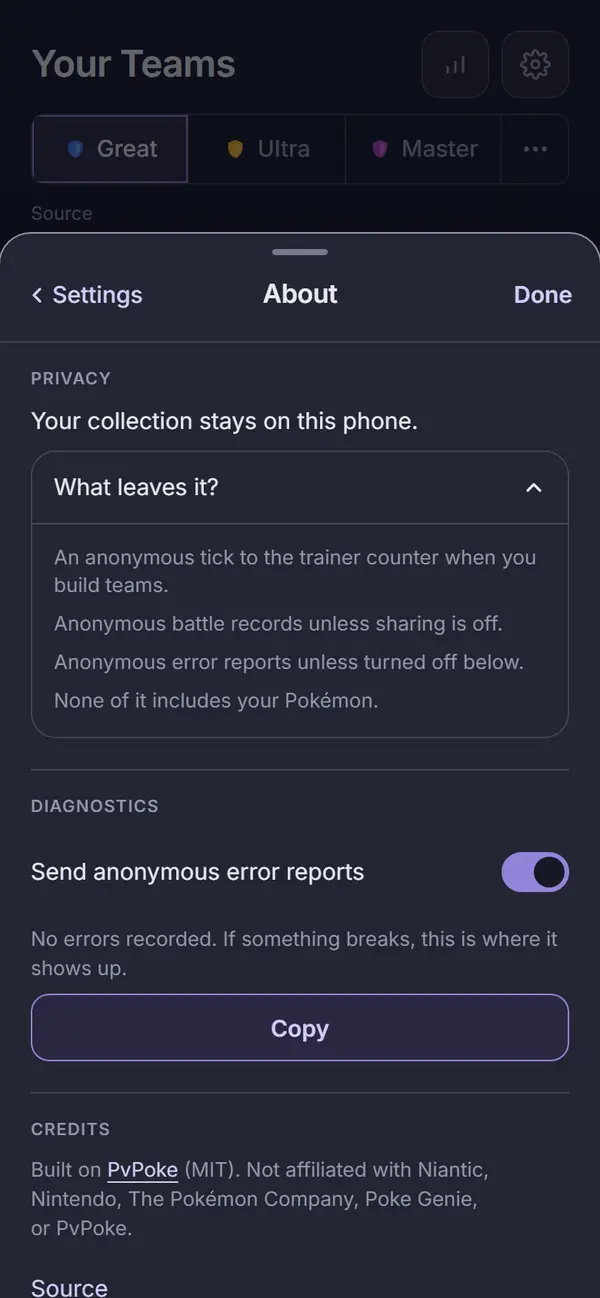
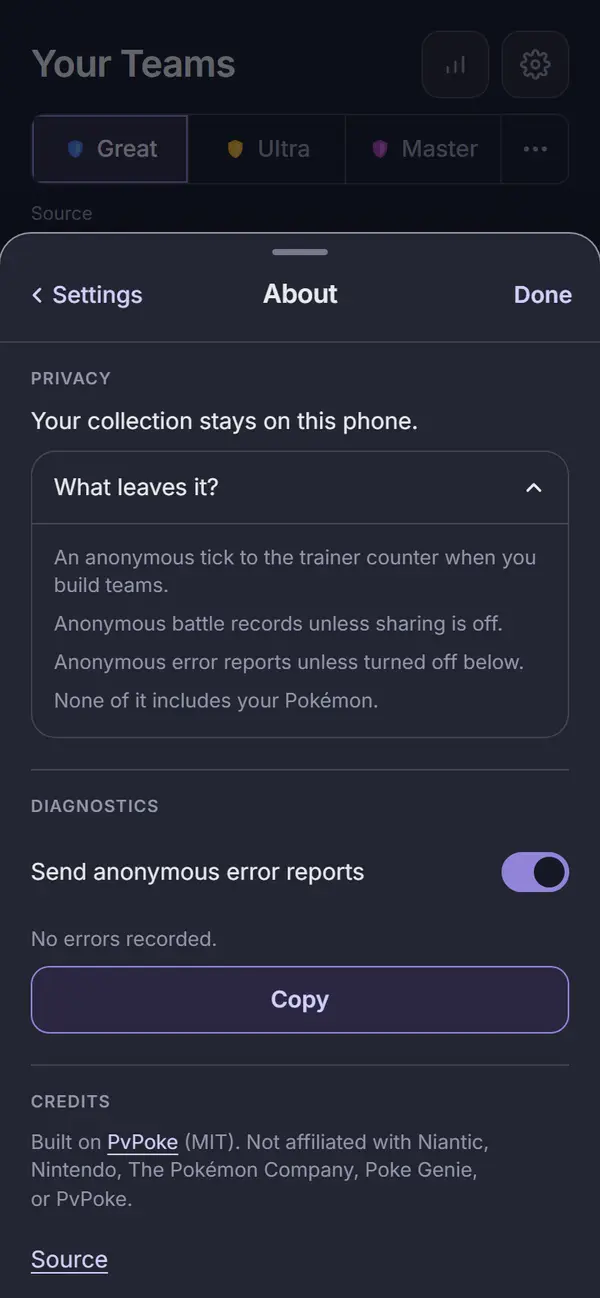
Design: Settings record, final review fixes
The record takes the final review round: the audit now fails a NEVER line
on an enforced screen and matches measured text per theme and per element;
the four About images are re-converted for "No errors recorded."; new open
items for Travis (the Counters cog shot for round 3, CLAUDE.md's Screens
line, the no-collection Import card line); the test-hygiene item is closed.

Claude-Session: https://claude.ai/code/session_01QpDSW9ZhLWToL3VMBP1mJq

Changed region(s): [[0.03, 0.8012, 0.81, 1.0], [0.03, 0.7088, 0.96, 0.832]]

diff --git a/docs/design/audits/settings.md b/docs/design/audits/settings.md
@@ -5,7 +5,7 @@ page 9 (Settings sheet). Intake entries: `docs/design/inventory/2026-09-23-desig
 "Settings sheet, first pass" and "Settings sub-pages and the confirm sheet, first pass". Spec:
 `docs/superpowers/specs/2026-09-26-design-rest-of-app-design.md`, "Decisions" and "Settings".
 Plan: `docs/superpowers/plans/2026-09-26-settings.md`. Branch `rest-of-app`, commits
-`d00c7a2` to `f1d8af4`.
+`d00c7a2` to `8b40f19`.
 
 Settings is now a hub with four pages (Your data, Community, Appearance, About) on the ui `Sheet`.
 Every `window.confirm` in it is a `ConfirmSheet`. The rank band is gone.
@@ -15,13 +15,18 @@ sheet shows the type-colored initials instead, as on every signed record. Settin
 Pokémon.
 
 A note on the build id: the audit ran with `PICK3_BUILD=874d675` (a production-length id, to test
-the About layout), so the hub and About read "build 874d675". The code is `f1d8af4`.
+the About layout), so the hub and About read "build 874d675". The code is `f1d8af4`, and
+`8b40f19` for the four About images.
 
 ## Screenshots
 
 Dark and light at 390px, one pair per state. All 24 come from the `npm run web:audit` run on
 2026-09-27 on the code committed as `f1d8af4`, converted to WebP (600px wide, quality 72) the same
-way the Teams and Your Meta images were. Each sheet opens from the Teams header cog.
+way the Teams and Your Meta images were. Each sheet opens from the Teams header cog. The four
+About images (`settings-about`, `settings-about-leaves`) were re-converted from the last
+2026-09-27 run on the `8b40f19` code (the ungrouped check run below; its captures are the same),
+after the Diagnostics empty line became "No errors recorded."; no other
+capture changed.
 
 | State | Dark | Light |
 | --- | --- | --- |
@@ -55,13 +60,20 @@ it; the trainer counter (it shows only once a real count arrives, and automation
       both themes. 618 findings remain on screens not yet redesigned, none failing the run, the
       same count as before this round. The new "Not on screen, unmeasured" list printed four lines
       per theme, all on `settings-about-leaves` (Game data and the App head, scrolled up under the
-      header), and each was measured in `settings-about`. No NEVER line.
+      header), and each was measured in `settings-about`. No NEVER line. Re-run on `8b40f19`
+      (the final review fixes: a NEVER line on an enforced screen now fails, matched per theme
+      and per element): exit 0, zero findings on the 12, the same 618 elsewhere, the same four
+      lines per theme each "measured in another dark/light capture of settings-about", no NEVER
+      line, no "Browser errors". A check run with `settings-about-leaves` taken out of its group
+      turned those eight lines into NEVER findings and exited 1; the group was put back.
 - [x] no console errors: that run printed no "Browser errors" section.
 - [x] `npm run lint`, `npm run typecheck`, `npm test`, `npm run check-colors`, `npm run
       check-tokens`: re-run for this record on 2026-09-27 on `f1d8af4`. lint exit 0; typecheck exit
       0; 140 files, 1322 tests passed; check-colors exit 0; "check-tokens: ok". `npm run ui:audit`
       (the `Switch` in the gallery): "gallery audit: clean in dark and light", from the Task 5 fix
-      round.
+      round. On `8b40f19`: lint, typecheck and check-colors exit 0; web tests 36 files, 389
+      passed; `settings.test.tsx` 27 of 27 in 22 runs; `npm run ui:audit` "gallery audit: clean
+      in dark and light".
 
 ## Aesthetics
 
@@ -70,8 +82,8 @@ it; the trainer counter (it shows only once a real count arrives, and automation
       actions that delete data (`settings-hub`, `settings-confirm-forget`,
       `settings-confirm-sharing`); Start fresh is violet, since it deletes nothing
       (`settings-confirm-fresh`, and a test asserts its confirm button is not danger); the sharing
-      warning line is neutral text (`settings-community`, and a test checks it carries no warn or
-      danger class). No pink: nothing in Settings is measured. `check-colors` clean.
+      warning line is neutral text (`settings-community`, and a test checks that neither it nor any
+      ancestor up to the page carries a warn or danger class). No pink: nothing in Settings is measured. `check-colors` clean.
 - [x] at most four text levels, one page title: the sheet title; section heads (the small
       uppercase labels) and row titles; body text; supporting text (summaries, lines). Seen in
       every capture.
@@ -111,7 +123,7 @@ it; the trainer counter (it shows only once a real count arrives, and automation
       Import; each row pushes its page and its summary follows the state (Your data sums every
       league's battles); Dark shows pressed at once and the hub reads it after back; the pictures
       and error reports switches flip in place; Forget empties the collection in state and in
-      IndexedDB; Start fresh moves the open set to Earlier seasons and deletes nothing; Stop and
+      IndexedDB and closes the sheet; Start fresh moves the open set to Earlier seasons and deletes nothing; Stop and
       delete turns sharing off in place and turning it back on needs no confirm; What's sent? and
       What leaves it? open and close; the meta.pick3.gg link goes to https://meta.pick3.gg.
 - [x] back returns to the origin: "< Settings" returns to the hub (tested, Appearance); Done and
@@ -126,9 +138,11 @@ it; the trainer counter (it shows only once a real count arrives, and automation
       holds a band (`store.test.tsx`); `index.html` and its `connect-src` are unchanged; What's
       sent? and What leaves it? say what the send paths send; CLAUDE.md drops "rank band" from the
       record list. Assumptions do not apply (Settings shows no result).
-- [x] tests cover the new behavior: `apps/web/test/settings.test.tsx` (25 tests: hub, Your data,
+- [x] tests cover the new behavior: `apps/web/test/settings.test.tsx` (27 tests: hub, Your data,
       Community, About, and one that spies on `window.confirm` across Forget, Start fresh and
-      sharing and finds it never called); `packages/ui/test/Controls.test.tsx` (3 `Switch`
+      sharing and finds it never called; the hub reads "Sharing off" after Stop and delete and
+      back; Import log shows the parser's own sentence for a file it cannot take; Forget closes
+      the sheet); `packages/ui/test/Controls.test.tsx` (3 `Switch`
       tests); `apps/web/test/metaShare.test.ts` and `store.test.tsx` (`band: null`).
 
 ## Findings and fixes
@@ -147,6 +161,10 @@ it; the trainer counter (it shows only once a real count arrives, and automation
 | Task 5 review, Important: the audit change dropped text scrolled wholly out of view without saying so. | It is listed as "Not on screen, unmeasured", with whether another capture of the page measured it. | `f1d8af4` |
 | Task 5 review, Minor: the clip ignored which axis scrolls and walked past fixed elements. | Each axis clips on its own; the walk stops at a fixed element. | `f1d8af4` |
 | Controller, on the About capture: Copy had no Diagnostics label and was half width; extra space under Check for updates. | A "Diagnostics" head; Copy full width when alone; the App block spaced like the others. | `f1d8af4` |
+| Final review, Important: a NEVER line on an enforced screen printed but did not fail, and the measured set merged both themes. | A NEVER line on an enforced screen is a finding (exit 1); the measured set is kept per page and theme. | `8b40f19` |
+| Final review: "measured in another capture" matched by tag and first 80 characters, so two elements with the same text could mask each other. | The key is the element's DOM path (from the nearest stable id, or body) plus its text. | `8b40f19` |
+| Final review, Minor: the battle count read had no `.catch`; the Diagnostics empty line was longer than the plan's; a stale comment named the Filters sheet; the clip walk did not say what it leaves. | The read records a `settings-count` error; the line is "No errors recorded."; the comment names About; an element that is itself fixed is not clipped, and the absolute case is named in a comment. | `8b40f19` |
+| Final review, Minor: test gaps (Sharing off on the hub after Stop and delete; the Import log error sentence; Forget closing the sheet; the neutral line checked one level up; an unrestored `window.confirm` spy). | Each is covered or fixed in `settings.test.tsx`. Test only. | `8b40f19` |
 
 ## Rulings
 
@@ -195,11 +213,18 @@ Made while building:
 - **The shared audit (`scripts/audit.mjs`), used by all three audits.** Text inside a scroll
   container is measured only where it is visible. Text scrolled wholly out of view no longer fails
   as "contrast unverified": it is listed per capture as "Not on screen, unmeasured", saying
-  whether another capture of the same page measured it (a caller that gives no report, like the ui
-  and meta audits, still gets a failing line). The clip is per axis and stops at a fixed element.
-  Counts elsewhere did not move: web 618, meta 321, ui clean. Known limit: "measured in another
-  capture" matches text by tag and first 80 characters, not by element, so on a page with repeated
-  text (Collection, Counters) it could reassure falsely.
+  whether another capture of the same page measured it in the same theme (a caller that gives no
+  report, like the ui and meta audits, still gets a failing line). On an enforced screen, a NEVER
+  line (no capture of its page measured that element in that theme) is a finding and fails the
+  run. The match is by element, not by words: the key is the element's DOM path (tag and child
+  position at each step, up to the nearest ancestor with a stable id, or body) plus its text, so two
+  elements with the same tag and text no longer stand in for each other. When the tree above an
+  element changes between captures, its key changes too and it counts as never measured, which
+  fails closed. The clip is per axis, stops at a fixed ancestor, and does not clip an element
+  that is itself fixed. Not handled, and noted in the code: an absolutely positioned descendant
+  whose containing block sits above an overflow ancestor is still clipped by that ancestor (the
+  audit measures less of it, never text that is off screen). Counts elsewhere did not move: web
+  618, meta 321, ui clean.
 - **`screens.mjs`** lost `06-sheet` and the `08d` check with the old sheet, and `shot()` takes a
   `group` so two captures of one page count as one page.
 
@@ -212,18 +237,20 @@ Made while building:
   lines; What's sent? is a "Sent:" line and a "Never sent:" line. Same words.
 - **Community's Open meta.pick3.gg sits about 16px under the open What's sent? box**, tighter than
   the page's other gaps (`settings-community-sent`).
-- **The no-collection card still says "Update or replace the collection on this phone."** It is
-  the spec's line, but there is nothing to update yet (`settings-hub-no-collection`).
-- **CLAUDE.md's Screens line still says "Sheet (...)"**, but the code now lives in
-  `screens/settings/`.
+- **The no-collection Import card still says "Update or replace the collection on this phone."**
+  under "No collection yet": it is the spec's line, but there is nothing to update yet
+  (`settings-hub-no-collection`). A copy change needs your call; the copy is unchanged.
+- **CLAUDE.md's Screens line still says "Sheet (Settings: ...)"**, though `screens/Sheet.tsx` is
+  gone and the code now lives in `screens/settings/`. CLAUDE.md is yours to edit; it is unchanged.
+- **Round 3 (Counters) must move `settings-hub-no-collection` back to the Counters no-collection
+  cog** (Ruling 12), restoring the check that the Counters cog opens Settings, once Counters
+  passes its own audit.
 - **Smaller, deferred during the build:**
   - The `Switch` row's gap is 8px; the old `.toggle` rows use 12px.
   - The Your data summary shows no battle count for a moment, until the log is read.
   - The 44px fix for the theme `Seg` applies inside Settings only, not to `.seg` everywhere.
   - Focus return is tested only after "Keep them", not after "Keep sharing" or "Keep this
     season".
-  - Two test-hygiene items: the neutral-line test checks one ancestor level, and one
-    `window.confirm` spy is never restored.
 
 ## Sign-off
 
